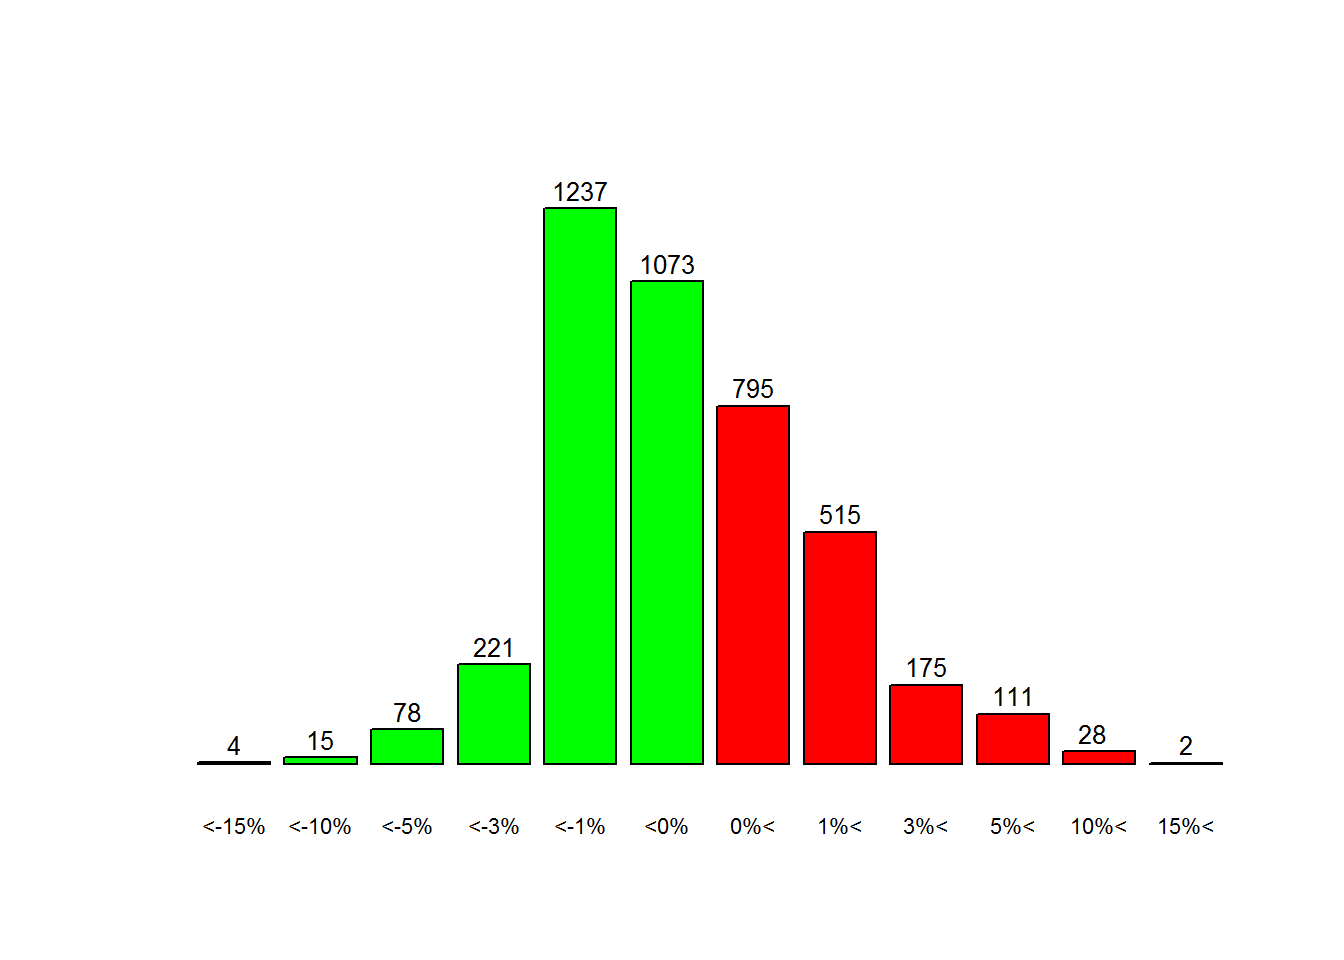
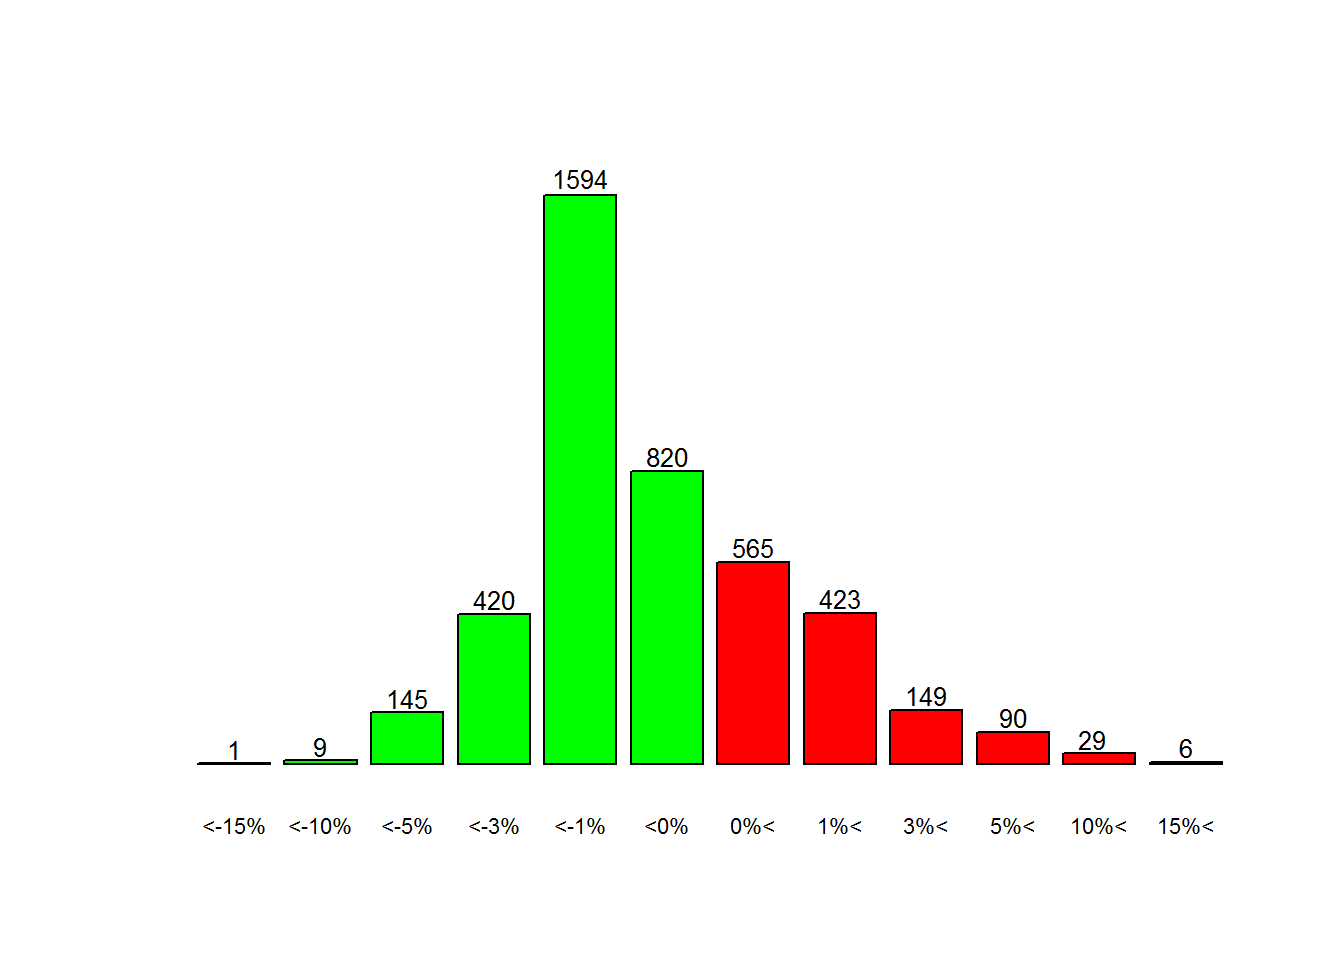
update

diff --git a/public/2021/04/24/r与mongo数据库交互演示/index.html b/public/2021/04/24/r与mongo数据库交互演示/index.html
@@ -141,23 +141,23 @@ pacman::p_load(data.table,plyr,stringr,dplyr,mongolite,future.apply,future)
 ##建立R与MongoDB数据库的链接，collection为数据表对应的文件，db为数据库中的表
 m&lt;-mongo(collection = &quot;tradedatadaily&quot;,db=&quot;stockdata&quot;)
 
-##查询字段有上市公司代码（symbol）、收盘价(close)、前收盘价(pre_close)，查询条件为交易日期(trade_date)等于2021-04-21
+##查询字段有上市公司代码（symbol）、收盘价(close)、前收盘价(pre_close)，查询条件为交易日期(trade_date)等于2021-04-23
 
-tradedata&lt;-m$find(query = &#39;{&quot;trade_date&quot;:&quot;20210421&quot;}&#39;,
+tradedata&lt;-m$find(query = &#39;{&quot;trade_date&quot;:&quot;20210423&quot;}&#39;,
                   fields = &#39;{&quot;symbol&quot;:&quot;ture&quot;,&quot;trade_date&quot;:&quot;ture&quot;,&quot;close&quot;:&quot;ture&quot;,&quot;pre_close&quot;:&quot;ture&quot;}&#39;)
 head(tradedata)</code></pre>
 <pre><code>##               _id symbol trade_date close pre_close
-## 1 000001_20210421 000001   20210421 23.01     21.69
-## 2 000002_20210421 000002   20210421 28.65     28.73
-## 3 000004_20210421 000004   20210421 18.49     18.88
-## 4 000005_20210421 000005   20210421  2.30      2.31
-## 5 000006_20210421 000006   20210421  5.54      5.53
-## 6 000007_20210421 000007   20210421  3.83      3.95</code></pre>
+## 1 000001_20210423 000001   20210423 23.29     22.98
+## 2 000002_20210423 000002   20210423 28.09     29.02
+## 3 000004_20210423 000004   20210423 18.64     18.33
+## 4 000005_20210423 000005   20210423  2.29      2.30
+## 5 000006_20210423 000006   20210423  5.37      5.52
+## 6 000007_20210423 000007   20210423  3.73      3.81</code></pre>
 <pre class="r"><code>##计算收益并分组统计上市公司数量
 fdstb&lt;-tradedata%&gt;%mutate(rets=close/pre_close-1)%&gt;%mutate(groups=cut(rets,c(-0.25,-0.15,-0.1,-0.05,-0.03,-.01,0,0.01,0.03,0.05,0.1,0.15,0.25),labels = c(&quot;&lt;-15%&quot;,&quot;&lt;-10%&quot;,&quot;&lt;-5%&quot;,&quot;&lt;-3%&quot;,&quot;&lt;-1%&quot;,&quot;&lt;0%&quot;,&quot;0%&lt;&quot;,&quot;1%&lt;&quot;,&quot;3%&lt;&quot;,&quot;5%&lt;&quot;,&quot;10%&lt;&quot;,&quot;15%&lt;&quot;),right=F))%&gt;%group_by(groups)%&gt;%summarise(cout=n())
 
-barplot(fdstb$cout,names.arg = fdstb$groups,col =c(rep(&quot;green&quot;,6),rep(&quot;red&quot;,6)),cex.names = 0.7,ylim = c(0,1350),axes = F)
-text(c(0.7,1.9,3.1,4.3,5.5,6.7,7.9,9.1,10.3,11.5,12.6,13.9),fdstb$cout+c(8,8,8,8,8,10,10,10,10.3,9,9,9)+32,fdstb$cout,cex = 0.8)</code></pre>
+barplot(fdstb$cout,names.arg = fdstb$groups,col =c(rep(&quot;green&quot;,6),rep(&quot;red&quot;,6)),cex.names = 0.7,ylim = c(0,1700),axes = F)
+text(c(0.7,1.9,3.1,4.3,5.5,6.7,7.9,9.1,10.3,11.5,12.6,13.9),fdstb$cout+c(8,8,8,8,15,10,10,10,10.3,9,9,9)+32,fdstb$cout,cex = 0.8)</code></pre>
 <p><img src="../../../../cn/2021-04-24-r与mongo数据库交互演示_files/figure-html/unnamed-chunk-2-1.png" width="672" /></p>
 <blockquote>
 <p>从MongoDB数据库中提取2021年IPO且市值的公司</p>

diff --git a/content/cn/2021-04-24-r与mongo数据库交互演示.html b/content/cn/2021-04-24-r与mongo数据库交互演示.html
@@ -60,23 +60,23 @@ pacman::p_load(data.table,plyr,stringr,dplyr,mongolite,future.apply,future)
 ##建立R与MongoDB数据库的链接，collection为数据表对应的文件，db为数据库中的表
 m&lt;-mongo(collection = &quot;tradedatadaily&quot;,db=&quot;stockdata&quot;)
 
-##查询字段有上市公司代码（symbol）、收盘价(close)、前收盘价(pre_close)，查询条件为交易日期(trade_date)等于2021-04-21
+##查询字段有上市公司代码（symbol）、收盘价(close)、前收盘价(pre_close)，查询条件为交易日期(trade_date)等于2021-04-23
 
-tradedata&lt;-m$find(query = &#39;{&quot;trade_date&quot;:&quot;20210421&quot;}&#39;,
+tradedata&lt;-m$find(query = &#39;{&quot;trade_date&quot;:&quot;20210423&quot;}&#39;,
                   fields = &#39;{&quot;symbol&quot;:&quot;ture&quot;,&quot;trade_date&quot;:&quot;ture&quot;,&quot;close&quot;:&quot;ture&quot;,&quot;pre_close&quot;:&quot;ture&quot;}&#39;)
 head(tradedata)</code></pre>
 <pre><code>##               _id symbol trade_date close pre_close
-## 1 000001_20210421 000001   20210421 23.01     21.69
-## 2 000002_20210421 000002   20210421 28.65     28.73
-## 3 000004_20210421 000004   20210421 18.49     18.88
-## 4 000005_20210421 000005   20210421  2.30      2.31
-## 5 000006_20210421 000006   20210421  5.54      5.53
-## 6 000007_20210421 000007   20210421  3.83      3.95</code></pre>
+## 1 000001_20210423 000001   20210423 23.29     22.98
+## 2 000002_20210423 000002   20210423 28.09     29.02
+## 3 000004_20210423 000004   20210423 18.64     18.33
+## 4 000005_20210423 000005   20210423  2.29      2.30
+## 5 000006_20210423 000006   20210423  5.37      5.52
+## 6 000007_20210423 000007   20210423  3.73      3.81</code></pre>
 <pre class="r"><code>##计算收益并分组统计上市公司数量
 fdstb&lt;-tradedata%&gt;%mutate(rets=close/pre_close-1)%&gt;%mutate(groups=cut(rets,c(-0.25,-0.15,-0.1,-0.05,-0.03,-.01,0,0.01,0.03,0.05,0.1,0.15,0.25),labels = c(&quot;&lt;-15%&quot;,&quot;&lt;-10%&quot;,&quot;&lt;-5%&quot;,&quot;&lt;-3%&quot;,&quot;&lt;-1%&quot;,&quot;&lt;0%&quot;,&quot;0%&lt;&quot;,&quot;1%&lt;&quot;,&quot;3%&lt;&quot;,&quot;5%&lt;&quot;,&quot;10%&lt;&quot;,&quot;15%&lt;&quot;),right=F))%&gt;%group_by(groups)%&gt;%summarise(cout=n())
 
-barplot(fdstb$cout,names.arg = fdstb$groups,col =c(rep(&quot;green&quot;,6),rep(&quot;red&quot;,6)),cex.names = 0.7,ylim = c(0,1350),axes = F)
-text(c(0.7,1.9,3.1,4.3,5.5,6.7,7.9,9.1,10.3,11.5,12.6,13.9),fdstb$cout+c(8,8,8,8,8,10,10,10,10.3,9,9,9)+32,fdstb$cout,cex = 0.8)</code></pre>
+barplot(fdstb$cout,names.arg = fdstb$groups,col =c(rep(&quot;green&quot;,6),rep(&quot;red&quot;,6)),cex.names = 0.7,ylim = c(0,1700),axes = F)
+text(c(0.7,1.9,3.1,4.3,5.5,6.7,7.9,9.1,10.3,11.5,12.6,13.9),fdstb$cout+c(8,8,8,8,15,10,10,10,10.3,9,9,9)+32,fdstb$cout,cex = 0.8)</code></pre>
 <p><img src="/cn/2021-04-24-r与mongo数据库交互演示_files/figure-html/unnamed-chunk-2-1.png" width="672" /></p>
 <blockquote>
 <p>从MongoDB数据库中提取2021年IPO且市值的公司</p>
